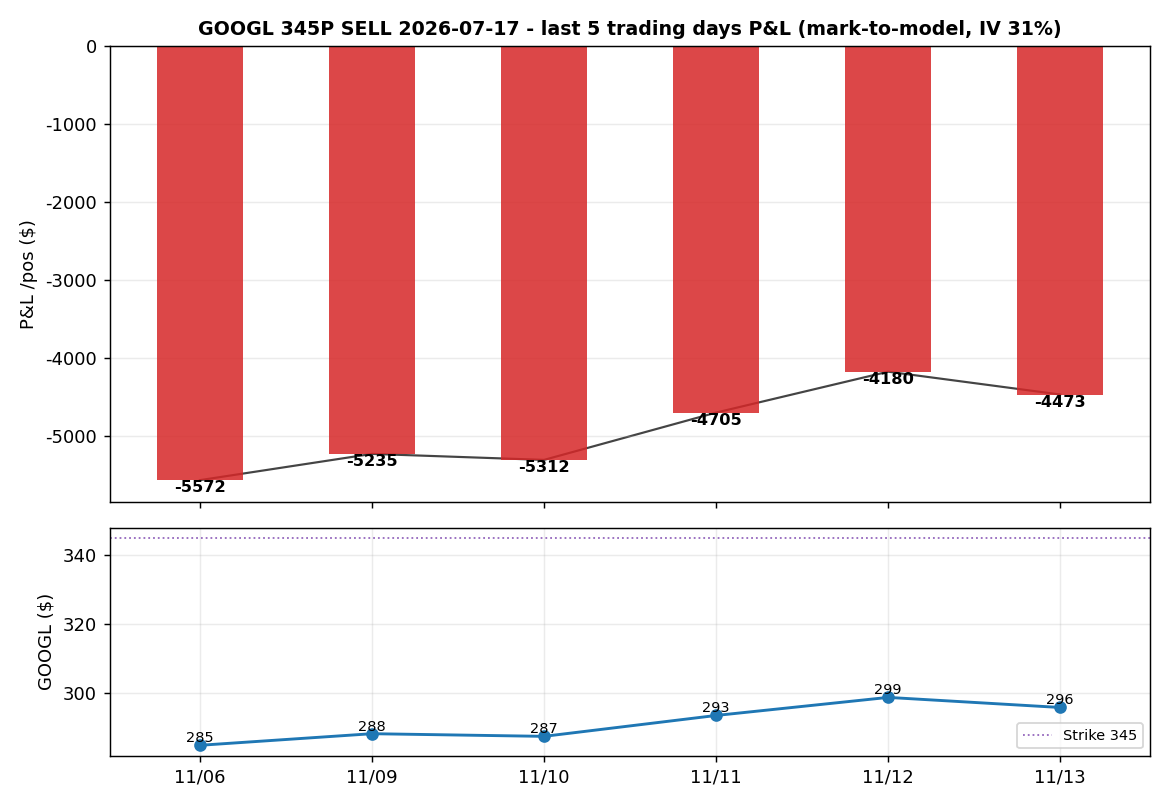
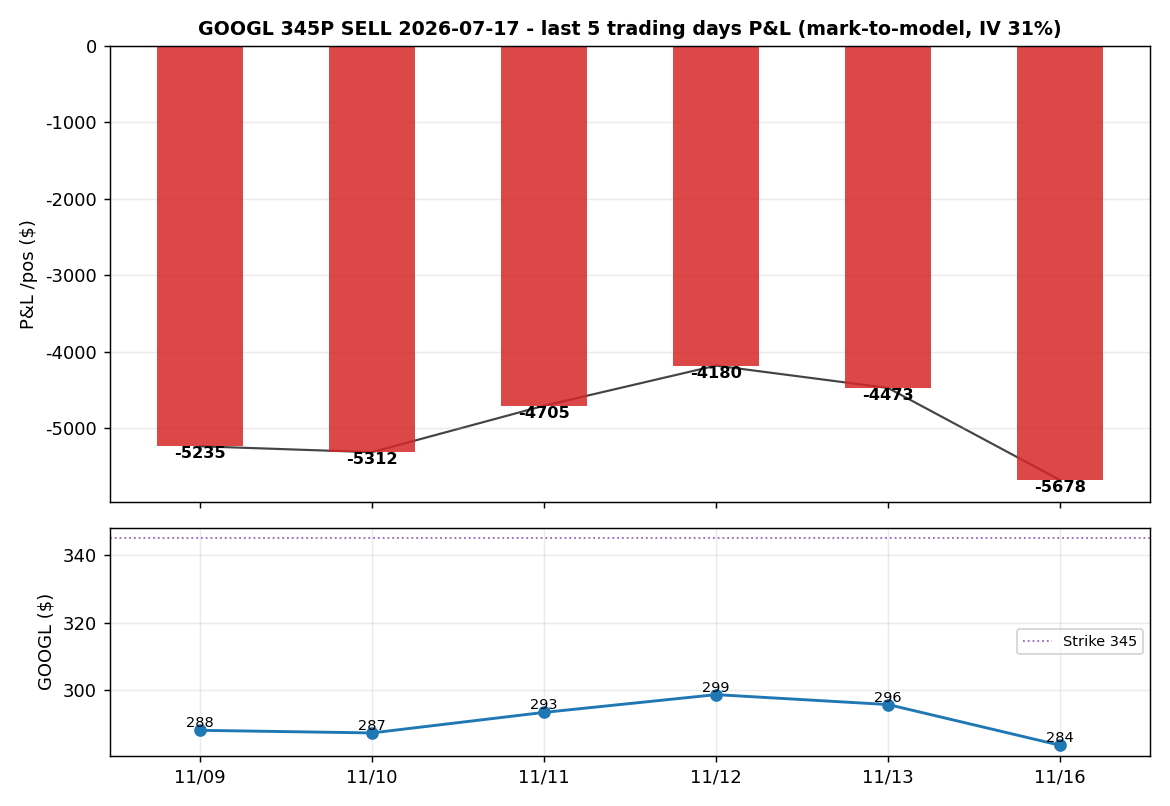
positions: 2026-11-17

diff --git a/positions.html b/positions.html
@@ -12,12 +12,12 @@ img{width:100%;height:auto;border-radius:8px;background:#fff}
 .warn{color:#e0a030;font-size:12.5px;line-height:1.7;margin-top:8px}
 </style></head><body><div class="wrap">
 <h1>持仓盈亏追踪</h1>
-<div class="sub">独立于每日荐股 · 数据 yfinance(延迟) · 盈亏为 BS 模型重算(IV 代理),非真实成交价 · 非投资建议<br>更新: 2026-11-14 01:39 UTC</div>
+<div class="sub">独立于每日荐股 · 数据 yfinance(延迟) · 盈亏为 BS 模型重算(IV 代理),非真实成交价 · 非投资建议<br>更新: 2026-11-17 04:07 UTC</div>
 <div class="card">
   <h2>STX Seagate · 835 PUT <span class="tag">SELL</span></h2>
   <div class="kv">到期 2026-06-26 · 建仓 2026-06-01 @ 权利金 $42.11 · 1 张<br>
-  最新(11/13): 标的 $528.29 · 浮动盈亏 <b class="r">-26,460</b>
-  (区间 -33,190 ~ -24,117)<br>
+  最新(11/16): 标的 $499.0 · 浮动盈亏 <b class="r">-29,389</b>
+  (区间 -29,389 ~ -24,117)<br>
   盈亏平衡 $792.89 · <b>赢的机率 PoP ≈ None%</b>(到期落在盈利侧, BS 估算)<br>
   下次财报 2027-01-26 ✅ 在到期后</div>
   <div style="font-size:12px;color:#8b8f98;margin:8px 0 2px">到期损益示意图</div>
@@ -30,15 +30,15 @@ img{width:100%;height:auto;border-radius:8px;background:#fff}
     <tr><th style="border:1px solid #23262d;padding:5px 12px;color:#e0a030">日期</th>
         <th style="border:1px solid #23262d;padding:5px 12px;color:#e0a030">标的</th>
         <th style="border:1px solid #23262d;padding:5px 12px;color:#e0a030">P&L</th></tr>
-    <tr><td style="border:1px solid #23262d;padding:5px 12px">11/06</td><td style="border:1px solid #23262d;padding:5px 12px">$460.99</td><td class='r'>-33,190</td></tr><tr><td style="border:1px solid #23262d;padding:5px 12px">11/09</td><td style="border:1px solid #23262d;padding:5px 12px">$506.14</td><td class='r'>-28,675</td></tr><tr><td style="border:1px solid #23262d;padding:5px 12px">11/10</td><td style="border:1px solid #23262d;padding:5px 12px">$501.62</td><td class='r'>-29,127</td></tr><tr><td style="border:1px solid #23262d;padding:5px 12px">11/11</td><td style="border:1px solid #23262d;padding:5px 12px">$551.72</td><td class='r'>-24,117</td></tr><tr><td style="border:1px solid #23262d;padding:5px 12px">11/12</td><td style="border:1px solid #23262d;padding:5px 12px">$545.14</td><td class='r'>-24,775</td></tr><tr><td style="border:1px solid #23262d;padding:5px 12px">11/13</td><td style="border:1px solid #23262d;padding:5px 12px">$528.29</td><td class='r'>-26,460</td></tr>
+    <tr><td style="border:1px solid #23262d;padding:5px 12px">11/09</td><td style="border:1px solid #23262d;padding:5px 12px">$506.14</td><td class='r'>-28,675</td></tr><tr><td style="border:1px solid #23262d;padding:5px 12px">11/10</td><td style="border:1px solid #23262d;padding:5px 12px">$501.62</td><td class='r'>-29,127</td></tr><tr><td style="border:1px solid #23262d;padding:5px 12px">11/11</td><td style="border:1px solid #23262d;padding:5px 12px">$551.72</td><td class='r'>-24,117</td></tr><tr><td style="border:1px solid #23262d;padding:5px 12px">11/12</td><td style="border:1px solid #23262d;padding:5px 12px">$545.14</td><td class='r'>-24,775</td></tr><tr><td style="border:1px solid #23262d;padding:5px 12px">11/13</td><td style="border:1px solid #23262d;padding:5px 12px">$528.29</td><td class='r'>-26,460</td></tr><tr><td style="border:1px solid #23262d;padding:5px 12px">11/16</td><td style="border:1px solid #23262d;padding:5px 12px">$499.0</td><td class='r'>-29,389</td></tr>
   </table>
   <div class="warn">⚠ mark-to-model:用真实日线 + BS 重算(IV 固定 86% 代理),非真实期权成交价。</div>
 </div>
 <div class="card">
   <h2>GOOGL 谷歌 · 345 PUT <span class="tag">SELL</span></h2>
   <div class="kv">到期 2026-07-17 · 建仓 2026-06-01 @ 权利金 $4.5 · 1 张<br>
-  最新(11/13): 标的 $295.77 · 浮动盈亏 <b class="r">-4,473</b>
-  (区间 -5,572 ~ -4,180)<br>
+  最新(11/16): 标的 $283.72 · 浮动盈亏 <b class="r">-5,678</b>
+  (区间 -5,678 ~ -4,180)<br>
   盈亏平衡 $340.5 · <b>赢的机率 PoP ≈ None%</b>(到期落在盈利侧, BS 估算)<br>
   下次财报 2026-10-28 ✅ 在到期后</div>
   <div style="font-size:12px;color:#8b8f98;margin:8px 0 2px">到期损益示意图</div>
@@ -51,14 +51,14 @@ img{width:100%;height:auto;border-radius:8px;background:#fff}
     <tr><th style="border:1px solid #23262d;padding:5px 12px;color:#e0a030">日期</th>
         <th style="border:1px solid #23262d;padding:5px 12px;color:#e0a030">标的</th>
         <th style="border:1px solid #23262d;padding:5px 12px;color:#e0a030">P&L</th></tr>
-    <tr><td style="border:1px solid #23262d;padding:5px 12px">11/06</td><td style="border:1px solid #23262d;padding:5px 12px">$284.78</td><td class='r'>-5,572</td></tr><tr><td style="border:1px solid #23262d;padding:5px 12px">11/09</td><td style="border:1px solid #23262d;padding:5px 12px">$288.15</td><td class='r'>-5,235</td></tr><tr><td style="border:1px solid #23262d;padding:5px 12px">11/10</td><td style="border:1px solid #23262d;padding:5px 12px">$287.38</td><td class='r'>-5,312</td></tr><tr><td style="border:1px solid #23262d;padding:5px 12px">11/11</td><td style="border:1px solid #23262d;padding:5px 12px">$293.45</td><td class='r'>-4,705</td></tr><tr><td style="border:1px solid #23262d;padding:5px 12px">11/12</td><td style="border:1px solid #23262d;padding:5px 12px">$298.7</td><td class='r'>-4,180</td></tr><tr><td style="border:1px solid #23262d;padding:5px 12px">11/13</td><td style="border:1px solid #23262d;padding:5px 12px">$295.77</td><td class='r'>-4,473</td></tr>
+    <tr><td style="border:1px solid #23262d;padding:5px 12px">11/09</td><td style="border:1px solid #23262d;padding:5px 12px">$288.15</td><td class='r'>-5,235</td></tr><tr><td style="border:1px solid #23262d;padding:5px 12px">11/10</td><td style="border:1px solid #23262d;padding:5px 12px">$287.38</td><td class='r'>-5,312</td></tr><tr><td style="border:1px solid #23262d;padding:5px 12px">11/11</td><td style="border:1px solid #23262d;padding:5px 12px">$293.45</td><td class='r'>-4,705</td></tr><tr><td style="border:1px solid #23262d;padding:5px 12px">11/12</td><td style="border:1px solid #23262d;padding:5px 12px">$298.7</td><td class='r'>-4,180</td></tr><tr><td style="border:1px solid #23262d;padding:5px 12px">11/13</td><td style="border:1px solid #23262d;padding:5px 12px">$295.77</td><td class='r'>-4,473</td></tr><tr><td style="border:1px solid #23262d;padding:5px 12px">11/16</td><td style="border:1px solid #23262d;padding:5px 12px">$283.72</td><td class='r'>-5,678</td></tr>
   </table>
   <div class="warn">⚠ mark-to-model:用真实日线 + BS 重算(IV 固定 31% 代理),非真实期权成交价。</div>
 </div>
 <div class="card">
   <h2>AAPL 苹果 · 295 PUT <span class="tag">SELL</span></h2>
   <div class="kv">到期 2026-07-10 · 建仓 2026-06-01 @ 权利金 $4.7 · 1 张<br>
-  最新(11/13): 标的 $356.27 · 浮动盈亏 <b class="g">+470</b>
+  最新(11/16): 标的 $352.78 · 浮动盈亏 <b class="g">+470</b>
   (区间 +470 ~ +470)<br>
   盈亏平衡 $290.3 · <b>赢的机率 PoP ≈ None%</b>(到期落在盈利侧, BS 估算)<br>
   下次财报 2027-01-28 ✅ 在到期后</div>
@@ -72,7 +72,7 @@ img{width:100%;height:auto;border-radius:8px;background:#fff}
     <tr><th style="border:1px solid #23262d;padding:5px 12px;color:#e0a030">日期</th>
         <th style="border:1px solid #23262d;padding:5px 12px;color:#e0a030">标的</th>
         <th style="border:1px solid #23262d;padding:5px 12px;color:#e0a030">P&L</th></tr>
-    <tr><td style="border:1px solid #23262d;padding:5px 12px">11/06</td><td style="border:1px solid #23262d;padding:5px 12px">$342.11</td><td class='g'>+470</td></tr><tr><td style="border:1px solid #23262d;padding:5px 12px">11/09</td><td style="border:1px solid #23262d;padding:5px 12px">$350.42</td><td class='g'>+470</td></tr><tr><td style="border:1px solid #23262d;padding:5px 12px">11/10</td><td style="border:1px solid #23262d;padding:5px 12px">$348.25</td><td class='g'>+470</td></tr><tr><td style="border:1px solid #23262d;padding:5px 12px">11/11</td><td style="border:1px solid #23262d;padding:5px 12px">$355.36</td><td class='g'>+470</td></tr><tr><td style="border:1px solid #23262d;padding:5px 12px">11/12</td><td style="border:1px solid #23262d;padding:5px 12px">$354.88</td><td class='g'>+470</td></tr><tr><td style="border:1px solid #23262d;padding:5px 12px">11/13</td><td style="border:1px solid #23262d;padding:5px 12px">$356.27</td><td class='g'>+470</td></tr>
+    <tr><td style="border:1px solid #23262d;padding:5px 12px">11/09</td><td style="border:1px solid #23262d;padding:5px 12px">$350.42</td><td class='g'>+470</td></tr><tr><td style="border:1px solid #23262d;padding:5px 12px">11/10</td><td style="border:1px solid #23262d;padding:5px 12px">$348.25</td><td class='g'>+470</td></tr><tr><td style="border:1px solid #23262d;padding:5px 12px">11/11</td><td style="border:1px solid #23262d;padding:5px 12px">$355.36</td><td class='g'>+470</td></tr><tr><td style="border:1px solid #23262d;padding:5px 12px">11/12</td><td style="border:1px solid #23262d;padding:5px 12px">$354.88</td><td class='g'>+470</td></tr><tr><td style="border:1px solid #23262d;padding:5px 12px">11/13</td><td style="border:1px solid #23262d;padding:5px 12px">$356.27</td><td class='g'>+470</td></tr><tr><td style="border:1px solid #23262d;padding:5px 12px">11/16</td><td style="border:1px solid #23262d;padding:5px 12px">$352.78</td><td class='g'>+470</td></tr>
   </table>
   <div class="warn">⚠ mark-to-model:用真实日线 + BS 重算(IV 固定 25% 代理),非真实期权成交价。</div>
 </div></div></body></html>
